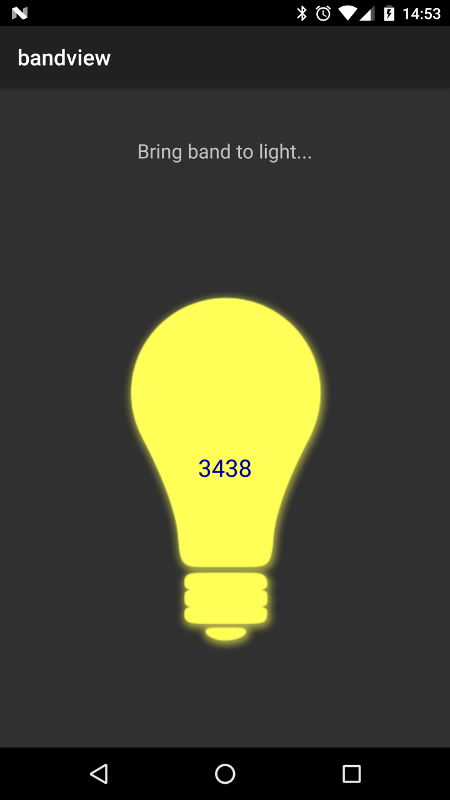
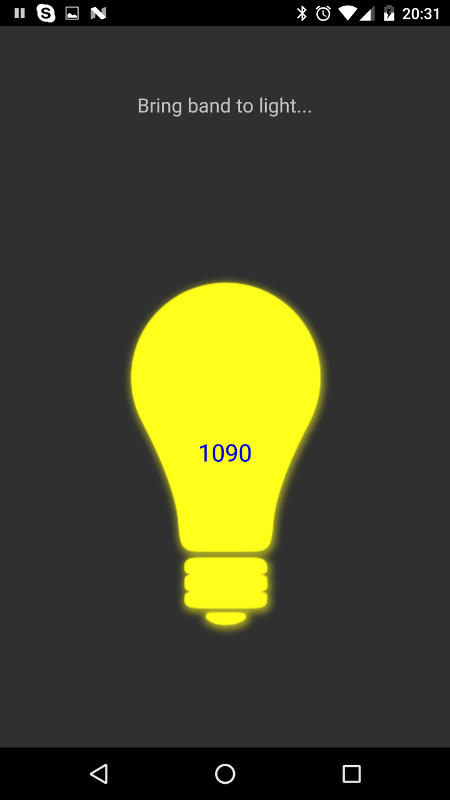
Adding raw data stubs for all sensors while work is in progress

diff --git a/App.cs b/App.cs
@@ -43,11 +43,27 @@
 
 			progressReporter?.Invoke($"{ctx.GetString(Resource.String.status_connected)} {bandInfo.Name}");
 
-			Container.RegisterInstance(typeof(BandSensorBase<BandAmbientLightReading>), string.Empty, bandClient.SensorManager.AmbientLight, new ContainerControlledLifetimeManager());
-
+			BindSensors(bandClient);
 			await Task.Delay(StepDelay); // ditto
 
 			return true;
+		}
+
+		private static void BindSensors(BandClient bandClient)
+		{
+			Container.RegisterInstance(typeof(BandSensorBase<BandAccelerometerReading>), string.Empty, bandClient.SensorManager.Accelerometer, new ContainerControlledLifetimeManager());
+			Container.RegisterInstance(typeof(BandSensorBase<BandHeartRateReading>), string.Empty, bandClient.SensorManager.HeartRate, new ContainerControlledLifetimeManager());
+			Container.RegisterInstance(typeof(BandSensorBase<BandPedometerReading>), string.Empty, bandClient.SensorManager.Pedometer, new ContainerControlledLifetimeManager());
+			Container.RegisterInstance(typeof(BandSensorBase<BandRRIntervalReading>), string.Empty, bandClient.SensorManager.RRInterval, new ContainerControlledLifetimeManager());
+			Container.RegisterInstance(typeof(BandSensorBase<BandSkinTemperatureReading>), string.Empty, bandClient.SensorManager.SkinTemperature, new ContainerControlledLifetimeManager());
+			Container.RegisterInstance(typeof(BandSensorBase<BandUltravioletLightReading>), string.Empty, bandClient.SensorManager.UltravioletLight, new ContainerControlledLifetimeManager());
+			Container.RegisterInstance(typeof(BandSensorBase<BandGsrReading>), string.Empty, bandClient.SensorManager.Gsr, new ContainerControlledLifetimeManager());
+			Container.RegisterInstance(typeof(BandSensorBase<BandAltimeterReading>), string.Empty, bandClient.SensorManager.Altimeter, new ContainerControlledLifetimeManager());
+			Container.RegisterInstance(typeof(BandSensorBase<BandAmbientLightReading>), string.Empty, bandClient.SensorManager.AmbientLight, new ContainerControlledLifetimeManager());
+			Container.RegisterInstance(typeof(BandSensorBase<BandBarometerReading>), string.Empty, bandClient.SensorManager.Barometer, new ContainerControlledLifetimeManager());
+			Container.RegisterInstance(typeof(BandSensorBase<BandCaloriesReading>), string.Empty, bandClient.SensorManager.Calories, new ContainerControlledLifetimeManager());
+			Container.RegisterInstance(typeof(BandSensorBase<BandGyroscopeReading>), string.Empty, bandClient.SensorManager.Gyroscope, new ContainerControlledLifetimeManager());
+			Container.RegisterInstance(typeof(BandSensorBase<BandDistanceReading>), string.Empty, bandClient.SensorManager.Distance, new ContainerControlledLifetimeManager());
 		}
 	}
 }

diff --git a/Fragments/FragmentFactory.cs b/Fragments/FragmentFactory.cs
@@ -4,14 +4,28 @@
 
 	using Android.App;
 
+	using Microsoft.Band.Portable.Sensors;
+
 	public static class FragmentFactory
 	{
 		public static Fragment GetSensingFragment(SensorType type)
 		{
 			switch (type)
 			{
-				case SensorType.AmbientLight: return new AmbientLightFragment();
-				
+				case SensorType.HeartRate:			return new RawSensorFragment<BandHeartRateReading>();
+				case SensorType.Accelerometer:		return new RawSensorFragment<BandAccelerometerReading>();
+				case SensorType.Pedometer:			return new RawSensorFragment<BandPedometerReading>();
+				case SensorType.RRInterval:			return new RawSensorFragment<BandRRIntervalReading>();
+				case SensorType.SkinTemperature:	return new RawSensorFragment<BandSkinTemperatureReading>();
+				case SensorType.UltravioletLight:	return new RawSensorFragment<BandUltravioletLightReading>();
+				case SensorType.Gsr:				return new RawSensorFragment<BandGsrReading>();
+				case SensorType.Altimeter:			return new RawSensorFragment<BandAltimeterReading>();
+				case SensorType.AmbientLight:		return new AmbientLightFragment();
+				case SensorType.Barometer:			return new RawSensorFragment<BandBarometerReading>();
+				case SensorType.Calories:			return new RawSensorFragment<BandCaloriesReading>();
+				case SensorType.Gyroscope:			return new RawSensorFragment<BandGyroscopeReading>();
+				case SensorType.Distance:			return new RawSensorFragment<BandDistanceReading>();
+
 				default:
 					throw new NotImplementedException();
 			}

diff --git a/Resources/Resource.designer.cs b/Resources/Resource.designer.cs
@@ -167,23 +167,26 @@ namespace bandview
 			// aapt resource value: 0x7f060005
 			public const int progressBar = 2131099653;
 			
+			// aapt resource value: 0x7f060008
+			public const int raw_data = 2131099656;
+			
 			// aapt resource value: 0x7f060003
 			public const int selector = 2131099651;
 			
 			// aapt resource value: 0x7f060007
 			public const int sensorContainer = 2131099655;
 			
-			// aapt resource value: 0x7f06000a
-			public const int sensorDesc = 2131099658;
+			// aapt resource value: 0x7f06000b
+			public const int sensorDesc = 2131099659;
 			
-			// aapt resource value: 0x7f060008
-			public const int sensorIcon = 2131099656;
+			// aapt resource value: 0x7f060009
+			public const int sensorIcon = 2131099657;
 			
 			// aapt resource value: 0x7f060006
 			public const int sensorList = 2131099654;
 			
-			// aapt resource value: 0x7f060009
-			public const int sensorName = 2131099657;
+			// aapt resource value: 0x7f06000a
+			public const int sensorName = 2131099658;
 			
 			// aapt resource value: 0x7f060004
 			public const int statusText = 2131099652;
@@ -208,7 +211,10 @@ namespace bandview
 			public const int Main = 2130968577;
 			
 			// aapt resource value: 0x7f040002
-			public const int SensorView = 2130968578;
+			public const int RawSensor = 2130968578;
+			
+			// aapt resource value: 0x7f040003
+			public const int SensorView = 2130968579;
 			
 			static Layout()
 			{

diff --git a/Fragments/RawSensorFragment.cs b/Fragments/RawSensorFragment.cs
@@ -1,0 +1,22 @@
+namespace bandview
+{
+	using Android.Widget;
+
+	using Com.Lilarcor.Cheeseknife;
+
+	using Microsoft.Band.Portable.Sensors;
+
+	public class RawSensorFragment <T> : SensingFragmentBase<T> where T : IBandSensorReading
+	{
+		[InjectView(Resource.Id.raw_data)]
+		TextView _raw;
+		
+		protected override int LayoutId { get; } = Resource.Layout.RawSensor;
+
+		protected override void OnSensorData(T data)
+		{
+			_raw.Text = data.ToString();
+		}
+	}
+}
+

diff --git a/README.md b/README.md
@@ -5,5 +5,6 @@ Test Android app written in C#/Xamarin that reveals all MS Band sensor informati
 POIs:
 * RecyclerView
 * MS Band SDK (Note: this is not native but java-wrapped Xamarin version, kind lame =\ )
+* Cheeseknife 
 
 ![Screenshot1](https://github.com/boguscoder/BandView/blob/master/Resources/Screenshots/Screenshot_20160514-175854.png) ![Screenshot2](https://github.com/boguscoder/BandView/blob/master/Resources/Screenshots/Screenshot_20160514-145316.png)
